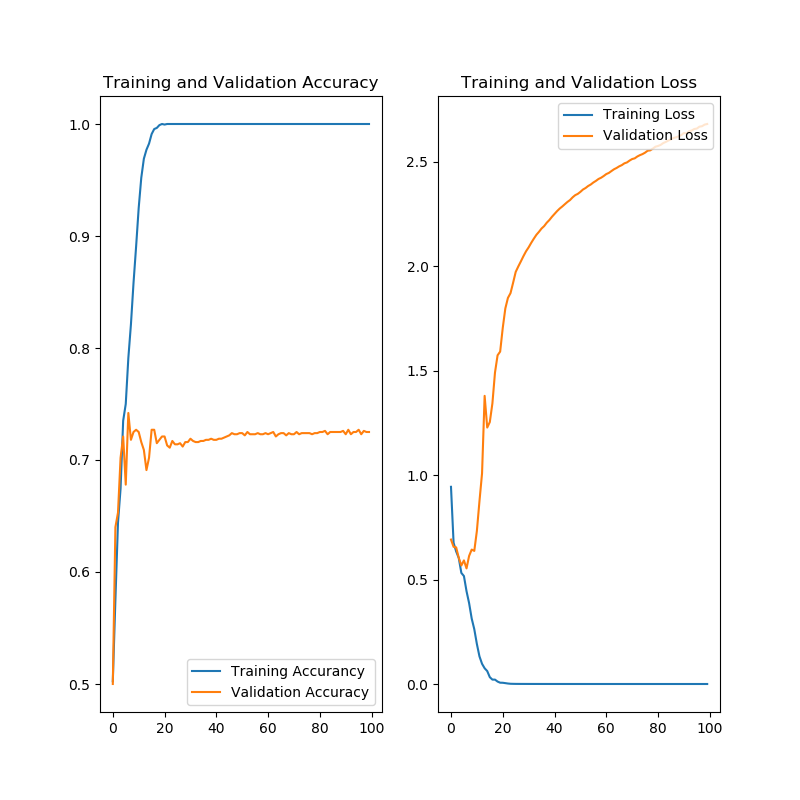
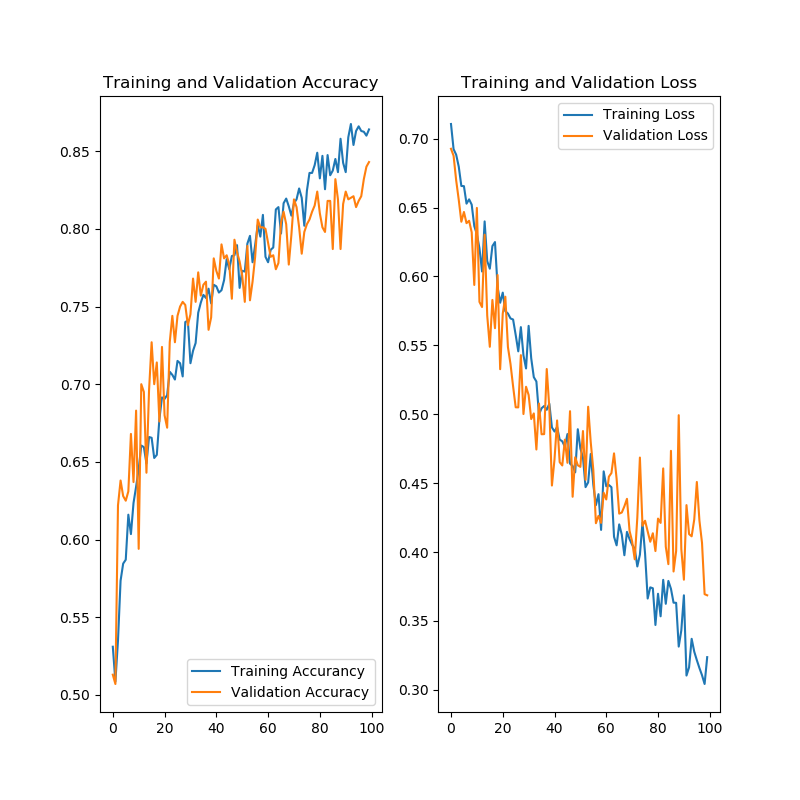
cats vs dogs classifier with dropout and data augmentation

diff --git a/cats-dogs.py b/cats-dogs.py
@@ -67,27 +67,103 @@ IMG_SHAPE  = 150  # Our training data consists of images with width of 150 pixel
 
 
 ############    WITHOUT OVERFITTING MITIGATION #################################
-#Pre-processing
-#Read images from the disk
-#Decode contents of these images and convert it into proper grid format as per their RGB content
-#Convert them into floating point tensors
-#Rescale the tensors from values between 0 and 255 to values between 0 and 1, as neural networks prefer to deal with small input values.
+##Pre-processing
+##Read images from the disk
+##Decode contents of these images and convert it into proper grid format as per their RGB content
+##Convert them into floating point tensors
+##Rescale the tensors from values between 0 and 255 to values between 0 and 1, as neural networks prefer to deal with small input values.
+#
+#train_image_generator = ImageDataGenerator(rescale=1./255)
+#validation_image_generator = ImageDataGenerator(rescale=1./255)
+#
+#train_data_gen = train_image_generator.flow_from_directory(batch_size=BATCH_SIZE,
+#                                                           directory=train_dir,
+#                                                           shuffle=True,
+#                                                           target_size=(IMG_SHAPE,IMG_SHAPE),
+#                                                           class_mode='binary')
+#val_data_gen = validation_image_generator.flow_from_directory(batch_size=BATCH_SIZE,
+#                                                           directory=validation_dir,
+#                                                           shuffle=False,
+#                                                           target_size=(IMG_SHAPE,IMG_SHAPE),
+#                                                           class_mode='binary')
+#
+#sample_training_images,labels = next(train_data_gen)
+#
+#def plotImages(images_arr):
+#    fig, axes = plt.subplots(1,5,figsize=(20,20))
+#    axes = axes.flatten()
+#    for img, ax in zip(images_arr,axes):
+#        ax.imshow(img)
+#    plt.tight_layout()
+#    plt.show()
+#
+#plotImages(sample_training_images[:5])
+#
+##Define the model
+#model = tf.keras.models.Sequential([
+#        tf.keras.layers.Conv2D(32, (3,3), activation = 'relu', input_shape = (150,150,3)),
+#        tf.keras.layers.MaxPool2D((2,2)),
+#        
+#        tf.keras.layers.Conv2D(64, (3,3), activation= 'relu'),
+#        tf.keras.layers.MaxPool2D((2,2)),
+#        
+#        tf.keras.layers.Conv2D(128, (3,3), activation= 'relu'),
+#        tf.keras.layers.MaxPool2D((2,2)),
+#        
+#        tf.keras.layers.Flatten(),
+#        tf.keras.layers.Dense(512, activation='relu'),
+#        tf.keras.layers.Dense(2)
+#        ])
+#    
+##Compile the model
+#model.compile(optimizer='adam',
+#              loss=tf.keras.losses.SparseCategoricalCrossentropy(from_logits=True),
+#              metrics=['accuracy'])
+#model.summary()
+#
+##fit the model
+#EPOCHS=100
+#history = model.fit(train_data_gen, 
+#          epochs = EPOCHS, 
+#          validation_data=val_data_gen,
+#          validation_steps = int(np.ceil(total_val/float(BATCH_SIZE))),
+#          shuffle=True,
+#          steps_per_epoch=int(np.ceil(total_train/float(BATCH_SIZE))),
+#          )
+#
+##let's plot the accuracy and loss progression in each epoch
+##First, prinnt which data fields are avaiable in the hostory object
+#print(history.history.keys())
+#
+#acc = history.history['accuracy']
+#loss = history.history['loss']
+#
+#val_acc = history.history['val_accuracy']
+#val_loss = history.history['val_loss']
+#
+#epochs_range = range(EPOCHS)
+#
+#plt.figure(figsize=(8,8))
+#plt.subplot(1,2,1)
+#plt.plot(epochs_range, acc, label = 'Training Accurancy')
+#plt.plot(epochs_range, val_acc, label = 'Validation Accuracy')
+#plt.legend(loc='lower right')
+#plt.title('Training and Validation Accuracy')
+#
+#plt.subplot(1,2,2)
+#plt.plot(epochs_range, loss, label = 'Training Loss')
+#plt.plot(epochs_range, val_loss, label = 'Validation Loss')
+#plt.legend(loc='upper right')
+#plt.title('Training and Validation Loss')
+#
+#plt.savefig('./AccuracyLoss')
+#plt.show()
+###############################################################################
 
-train_image_generator = ImageDataGenerator(rescale=1./255)
-validation_image_generator = ImageDataGenerator(rescale=1./255)
 
-train_data_gen = train_image_generator.flow_from_directory(batch_size=BATCH_SIZE,
-                                                           directory=train_dir,
-                                                           shuffle=True,
-                                                           target_size=(IMG_SHAPE,IMG_SHAPE),
-                                                           class_mode='binary')
-val_data_gen = validation_image_generator.flow_from_directory(batch_size=BATCH_SIZE,
-                                                           directory=validation_dir,
-                                                           shuffle=False,
-                                                           target_size=(IMG_SHAPE,IMG_SHAPE),
-                                                           class_mode='binary')
-
-sample_training_images,labels = next(train_data_gen)
+#The above method shows 70% accuracy on validation set and 100% on the training set.
+#The diverging graphs in accuracy and loss show overfitting.
+#We'll try two methods to mitigate overfitting: Data augmentation and Dropout
 
 def plotImages(images_arr):
     fig, axes = plt.subplots(1,5,figsize=(20,20))
@@ -97,20 +173,56 @@ def plotImages(images_arr):
     plt.tight_layout()
     plt.show()
 
-plotImages(sample_training_images[:5])
+image_gen = ImageDataGenerator(rescale=1./255, 
+                               horizontal_flip= True,
+                               rotation_range= 40,
+                               zoom_range= 0.2,
+                               shear_range= 0.2,
+                               width_shift_range= 0.2,
+                               height_shift_range= 0.2,
+                               fill_mode= 'nearest')
 
-#Define the model
-model = tf.keras.models.Sequential([
-        tf.keras.layers.Conv2D(32, (3,3), activation = 'relu', input_shape = (150,150,3)),
-        tf.keras.layers.MaxPool2D((2,2)),
+train_data_gen = image_gen.flow_from_directory(directory=train_dir,
+                                               batch_size=BATCH_SIZE,
+                                               shuffle=True,
+                                               target_size=(IMG_SHAPE, IMG_SHAPE),
+                                               class_mode= 'binary')
+
+#Returns a DirectoryIterator(train_data_gen) yielding tuples of (x, y) where x is a numpy array containing 
+#a batch of images with shape (batch_size, *target_size, channels) and y is a 
+#numpy array of corresponding labels.
+
+#train_data_gen returns output of the shape (batch_size, image shape, image shape, num of channels)
+#Here it would be (100, 150, 150, 3)
+
+#select the first batch, image data of the batch and ther first entry in the batch. 
+augmented_images = [train_data_gen[0][0][0] for i in range(5)]
+plotImages(augmented_images)
+
+image_gen_val = ImageDataGenerator(rescale=1./255)
+val_data_gen = image_gen_val.flow_from_directory(directory=validation_dir,
+                                                 batch_size=BATCH_SIZE,
+                                                 target_size=(IMG_SHAPE, IMG_SHAPE),
+                                                 class_mode= 'binary')
+
+#Build the model
+model= tf.keras.models.Sequential([
+        tf.keras.layers.Conv2D(32, (3,3), activation='relu', input_shape = (150,150,3)),
+        tf.keras.layers.MaxPooling2D((2,2)),
         
-        tf.keras.layers.Conv2D(64, (3,3), activation= 'relu'),
-        tf.keras.layers.MaxPool2D((2,2)),
+        tf.keras.layers.Conv2D(64, (2,2), activation='relu'),
+        tf.keras.layers.MaxPooling2D((2,2)),
         
-        tf.keras.layers.Conv2D(128, (3,3), activation= 'relu'),
-        tf.keras.layers.MaxPool2D((2,2)),
+        tf.keras.layers.Conv2D(128, (3,3), activation='relu'),
+        tf.keras.layers.MaxPooling2D((2,2)),
+        
+        tf.keras.layers.Conv2D(128, (3,3), activation='relu'),
+        tf.keras.layers.MaxPooling2D((2,2)),
+        
+        tf.keras.layers.Dropout(0.5),
         
         tf.keras.layers.Flatten(),
+        
         tf.keras.layers.Dense(512, activation='relu'),
         tf.keras.layers.Dense(2)
         ])
@@ -118,21 +230,22 @@ model = tf.keras.models.Sequential([
 #Compile the model
 model.compile(optimizer='adam',
               loss=tf.keras.losses.SparseCategoricalCrossentropy(from_logits=True),
-              metrics=['accuracy'])
+              metrics = ['accuracy']
+              )
+
 model.summary()
 
-#fit the model
-EPOCHS=100
-history = model.fit(train_data_gen, 
-          epochs = EPOCHS, 
-          validation_data=val_data_gen,
-          validation_steps = int(np.ceil(total_val/float(BATCH_SIZE))),
-          shuffle=True,
-          steps_per_epoch=int(np.ceil(total_train/float(BATCH_SIZE))),
-          )
 
-#let's plot the accuracy and loss progression in each epoch
-#First, prinnt which data fields are avaiable in the hostory object
+#Train the model
+EPOCHS = 100
+history = model.fit(train_data_gen,
+                    steps_per_epoch=int(np.ceil(total_train/float(BATCH_SIZE))),
+                    epochs=EPOCHS,
+                    validation_data=val_data_gen,
+                    validation_steps=int(np.ceil(total_val/float(BATCH_SIZE))))
+
+##let's plot the accuracy and loss progression in each epoch
+##First, prinnt which data fields are avaiable in the hostory object
 print(history.history.keys())
 
 acc = history.history['accuracy']
@@ -158,13 +271,3 @@ plt.title('Training and Validation Loss')
 
 plt.savefig('./AccuracyLoss')
 plt.show()
-###############################################################################
-
-
-#The above method shows 70% accuracy on validation set and 100% on the training set.
-#The diverging graphs in accuracy and loss show overfitting.
-#We'll try two methods to mitigate overfitting: Data augmentation and Dropout
-
-
-
-
